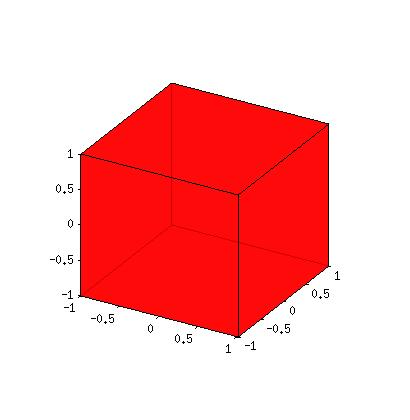
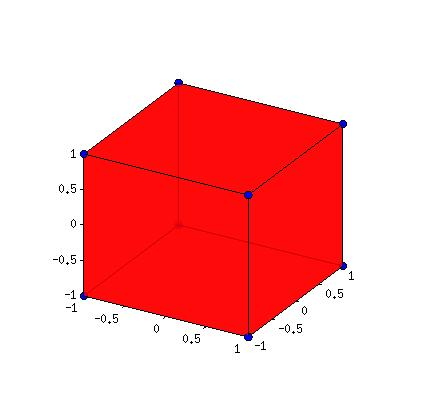
[DOC] tech-report: 2 more illustrations

diff --git a/Documentation/i.palachev/Thesis/TechnicalReport/CreateCubeTransformed.m b/Documentation/i.palachev/Thesis/TechnicalReport/CreateCubeTransformed.m
@@ -1,7 +1,7 @@
 format compact
 axes('Position',[0.2 0.2 0.6 0.6]);
 vert = [-1 -1 -1;  1 -1 -1;  1  1 -1; -1  1 -1;
-         -1 -1  1;  1 -1  1;  1.2  1.2  1.2; -1  1  1];
+         -1 -1  1;  1 -1  1;  1.25  1.25  1.25; -1  1  1];
 fac = [1 2 3 4; ...
     5 6 8 8; ...
     1 2 6 5; ...
@@ -11,7 +11,7 @@ fac = [1 2 3 4; ...
     6 7 8 8; ...
     3 7 6 6; ...
     8 7 3 3];
-patch('Faces',fac,'Vertices',vert,'FaceColor','r');
+patch('Faces',fac,'Vertices',vert,'FaceColor','r', 'Marker', 'o','MarkerSize', 7, 'MarkerFaceColor', 'b');
 material shiny;
 alpha(0.8);
 alphamap('rampdown');

diff --git a/Documentation/i.palachev/Thesis/TechnicalReport/CreateOctahedronTransformed.m b/Documentation/i.palachev/Thesis/TechnicalReport/CreateOctahedronTransformed.m
@@ -1,0 +1,17 @@
+format compact 
+axes('Position',[0.2 0.2 0.6 0.6]);
+vert = [0 -1 0; 0.9 -0.1 0; 0.9 0 -0.1; 0 0.9 -0.1; -0.1 0.9 0; -1 0 0;
+    -0.1 0 0.9; 0 -0.1 0.9; 0 0 -1];
+fac = [1 2 8 8 8 8; ...
+    2 3 4 5 7 8; ...
+    5 6 7 7 7 7; ...
+    1 6 7 8 8 8; ...
+    1 2 3 9 9 9; ...
+    3 4 9 9 9 9; ...
+    4 5 6 9 9 9; ...
+    1 6 9 9 9 9];
+patch('Faces',fac,'Vertices',vert,'FaceColor','b', 'Marker', 'o','MarkerSize', 7, 'MarkerFaceColor', 'r');  hold on;
+material shiny;
+alpha(0.8);
+alphamap('rampdown');
+view(30,30);

diff --git a/Documentation/i.palachev/Thesis/TechnicalReport/CreateCube.m b/Documentation/i.palachev/Thesis/TechnicalReport/CreateCube.m
@@ -8,7 +8,7 @@ fac = [1 2 3 4; ...
     2 3 7 6; ...
     3 4 8 7; ...
     4 1 5 8];
-patch('Faces',fac,'Vertices',vert,'FaceColor','r');
+patch('Faces',fac,'Vertices',vert,'FaceColor','r', 'Marker', 'o','MarkerSize', 7, 'MarkerFaceColor', 'b');
 material shiny;
 alpha(0.8);
 alphamap('rampdown');

diff --git a/Documentation/i.palachev/Thesis/TechnicalReport/CreateOctahedronCorrected.m b/Documentation/i.palachev/Thesis/TechnicalReport/CreateOctahedronCorrected.m
@@ -1,6 +1,6 @@
 format compact 
 axes('Position',[0.2 0.2 0.6 0.6]);
-vert = [0 0 -1; 0 0 1; 0 -1 0; 1 0 0; 0 1 0; -1 0 0];
+vert = [0 0 -1; -0.05 0.05 0.9; 0 -1 0; 0.9 -0.05 -0.05; -0.05 0.9 -0.05; -1 0 0];
 fac = [1 3 6; ...
     1 3 4; ...
     1 4 5; ...
